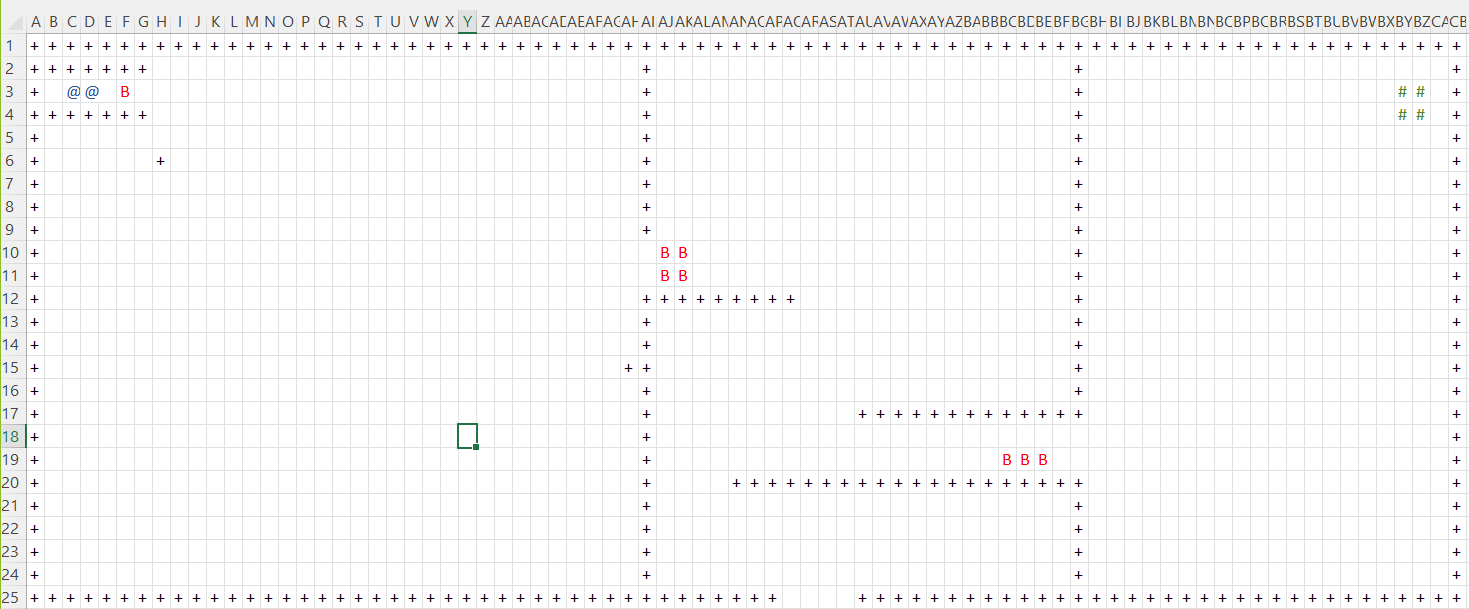
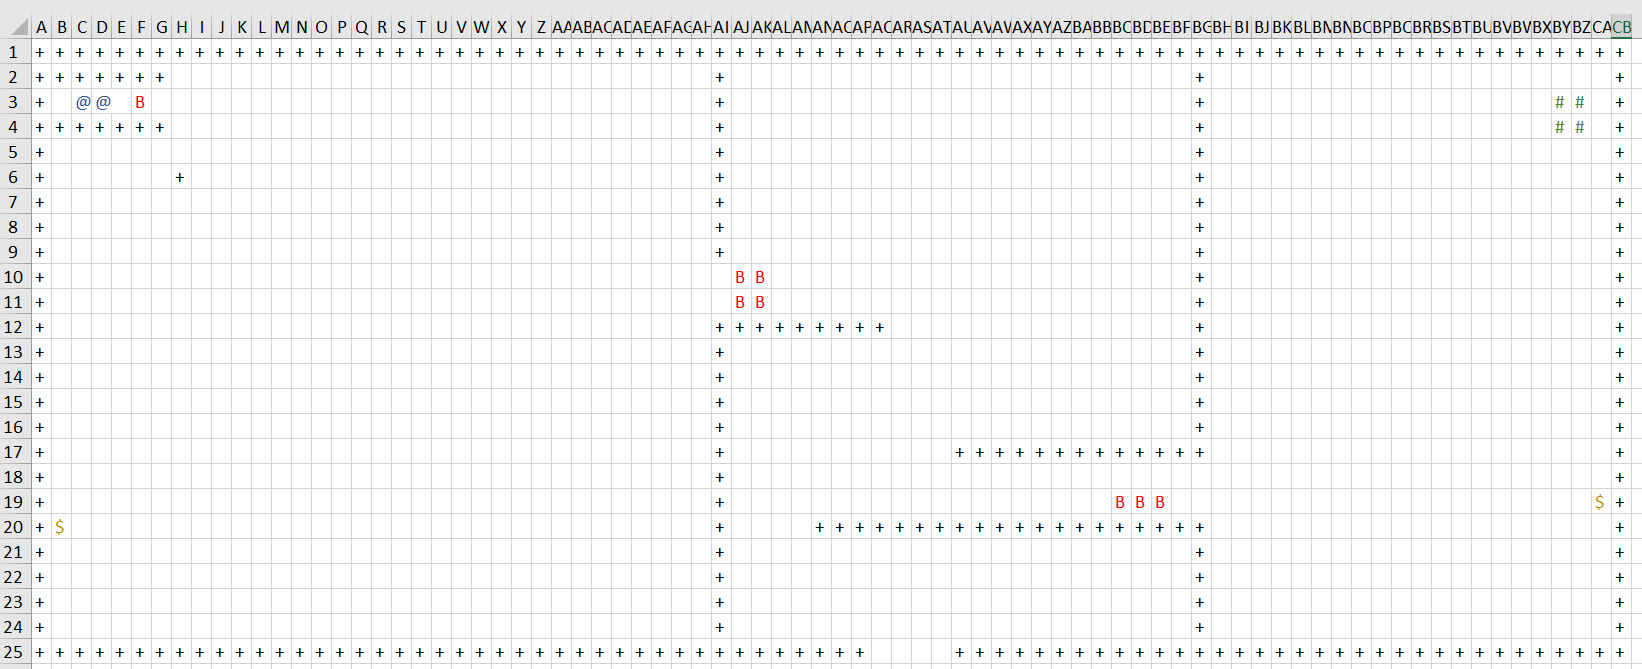
Fixes from Ido comments Still there is bug with first place of ghost is not empty

Changed region(s): [[0.0, 0.0, 1.0, 1.0]]

diff --git a/Thnderbird/Ghost.cpp b/Thnderbird/Ghost.cpp
@@ -2,20 +2,23 @@
 
 int Ghost::idGenerator = 1000;
 
-Ghost::Ghost(Point* _point)
+Ghost::Ghost(Point** _list_points, int _size)
 {
-
-	point = _point;
-	point->setFigure(figure);
-	point->setColor(color);
-	point->setObjecId(idGenerator++);
-
+	list_points = new Point* ();
+	for (int i = 0; i < _size; i++)
+	{
+		list_points[i] = _list_points[i];
+	}
+	size = _size;
+	for (int i = 0; i < size; i++){
+		list_points[i]->setObjecId(idGenerator++);
+	}
 }
 
-Ghost::Ghost(Point* _point, char _figure, Color _color, bool _isGhostBlock, int _ghostId)
+Ghost::Ghost(Point** _list_points, char _figure, Color _color, bool _isGhostBlock, int _ghostId)
 {
 
-	point = _point;
+	list_points = _list_points;
 	figure = _figure;
 	color = _color;
 	isGhostBlock = _isGhostBlock;
@@ -35,17 +38,26 @@ void Ghost::Move(Board* board){
 	MoveGhost(board);
 }
 
+int Ghost::getSize()
+{
+	return size;
+}
+
 void Ghost::MoveGhost(Board* board) {
 
 	auto mat = board->getMat();
-	point->draw((char)BoardFigure::EMPTY);
-	mat[point->getX(), point->getY()]->setFigure((char)BoardFigure::EMPTY);
-	mat[point->getX(), point->getY()]->setObjecId((int)ObjectId::EMPTY);
+	for (int i = 0; i < size; i++)
+	{
+		list_points[i]->draw((char)BoardFigure::EMPTY);
+		mat[list_points[i]->getX(), list_points[i]->getY()]->setFigure((char)BoardFigure::EMPTY);
+		mat[list_points[i]->getX(), list_points[i]->getY()]->setObjecId((int)ObjectId::EMPTY);
 
-	point->move(direction);
-	point->draw();
-	mat[point->getX(), point->getY()]->setFigure(figure);
-	mat[point->getX(), point->getY()]->setObjecId(ghostId);
+		list_points[i]->move(direction);
+		list_points[i]->draw();
+		mat[list_points[i]->getX(), list_points[i]->getY()]->setFigure(figure);
+		mat[list_points[i]->getX(), list_points[i]->getY()]->setObjecId(ghostId);
+	}
+	
 }
 
 void Ghost::checkGhostCollision(Board* board)
@@ -54,10 +66,10 @@ void Ghost::checkGhostCollision(Board* board)
 	switch (direction)
 	{
 	case 2: //LEFT
-		isGhostBlock = board->isNotEmptyPoint(point->getX() - 1, point->getY(), direction, blocksInvolve, 0);
+		isGhostBlock = board->isNotEmptyPoint(list_points[0]->getX() - 1, list_points[0]->getY(), direction, blocksInvolve, 0);
 		break;
 	case 3: //RIGHT
-		isGhostBlock = board->isNotEmptyPoint(point->getX() + 1, point->getY(), direction, blocksInvolve, 0);
+		isGhostBlock = board->isNotEmptyPoint(list_points[0]->getX() + 1, list_points[0]->getY(), direction, blocksInvolve, 0);
 		break;
 	default:
 		isGhostBlock = false;

diff --git a/Thnderbird/Board.cpp b/Thnderbird/Board.cpp
@@ -393,10 +393,20 @@ void Board::placeShipsOnBoard(SpaceShip* ship)
 
 void Board::initGhosts() {
 
-	Point* ghostPoint1 = new Point(1, 19);
-	Point* ghostPoint2 = new Point(78, 18);
-	allGhosts.push_back(Ghost(ghostPoint1));
-	allGhosts.push_back(Ghost(ghostPoint2));
+	ghostsAmount = 2;
+	
+	int size1 = 1;
+	Point* ghostPoint1 = new Point(1, 19, (char)BoardFigure::HORIZONTAL_GHOST, Color::BROWN);
+	Point* ghostList1[] = { ghostPoint1 };
+	Ghost* ghost1 = new Ghost(ghostList1,size1);
+	
+	int size2 = 1;
+	Point* ghostPoint2 = new Point(78, 18, (char)BoardFigure::HORIZONTAL_GHOST, Color::BROWN);
+	Point* ghostList2[] = {ghostPoint2};
+	Ghost* ghost2 = new Ghost(ghostList2, size2);
+
+	allGhosts.push_back(ghost1);
+	allGhosts.push_back(ghost2);
 
 	placeGhostsOnBoard();
 }
@@ -404,15 +414,24 @@ void Board::initGhosts() {
 void Board::moveGhosts() {
 
 	for (int i = 0; i < allGhosts.size(); i++) {
-		allGhosts[i].Move(this);
+		allGhosts[i]->Move(this);
 	}
 
 }
 
 void Board::placeGhostsOnBoard(){
 
+	int ghostSize;
+
 	for (int i = 0; i < allGhosts.size(); i++){
-		setMatrixPoint(allGhosts[i].point->getX(), allGhosts[i].point->getY(), allGhosts[i].point);
+
+		ghostSize = allGhosts[i]->getSize();
+
+		for (int j = 0; j < ghostSize; j++)
+		{
+			setMatrixPoint(allGhosts[i]->list_points[j]->getX(), allGhosts[i]->list_points[j]->getY(), allGhosts[i]->list_points[j]);
+		}
+		
 	}
 
 }

diff --git a/Thnderbird/Ghost.h b/Thnderbird/Ghost.h
@@ -11,19 +11,20 @@ class Ghost
 public:
 
 	//data members
-	Point* point;
+	Point** list_points;
 	char figure = (char)BoardFigure::HORIZONTAL_GHOST;
 	Color color = Color::BROWN;
 	bool isGhostBlock = false;
 	int ghostId = (int)ObjectId::EMPTY;
 	static int idGenerator;
 	int direction = (int)Direction::RIGHT;
+	int size = 0;
 
 
 	//ctors + dtors
 	Ghost() = default;
-	Ghost(Point* _point);
-	Ghost(Point* _point, char _figure, Color _color, bool _isGhostBlock, int _ghostId);
+	Ghost(Point** _list_points, int _size);
+	Ghost(Point** _list_points, char _figure, Color _color, bool _isGhostBlock, int _ghostId);
 	Ghost(const Ghost& _ghost) = default;
 	Ghost& operator=(const Ghost& _ghost) = default;
 	~Ghost();
@@ -31,7 +32,7 @@ public:
 
 	//public methods
 	void Move(Board* board);
-
+	int getSize();
 
 private:
 

diff --git a/Thnderbird/Point.h b/Thnderbird/Point.h
@@ -22,6 +22,7 @@ public:
 	//ctors + dtors
 	Point(int _x, int _y);
 	Point(int _x, int _y, char _fig);
+	Point(int _x, int _y, char _fig, Color _color);
 	Point(int _x, int _y, char _fig, Color _color, int _objectId);
 	Point() = default;
 	Point(const Point & _p) = default;
@@ -38,7 +39,6 @@ public:
 	int getObjecId() const;
 	char getFigure() const;
 	void setFigure(char _figure);
-	void setColor(Color _color);
 
 	//public methods
 	void draw() const;

diff --git a/Thnderbird/Point.cpp b/Thnderbird/Point.cpp
@@ -18,6 +18,13 @@ Point::Point(int _x, int _y, char _fig)
 	y = _y;
 	figure = _fig;
 }
+Point::Point(int _x, int _y, char _fig, Color _color)
+{
+	x = _x;
+	y = _y;
+	figure = _fig;
+	color = _color;
+}
 /*
 Constructor of Point with 5 parameters.
 */
@@ -115,10 +122,6 @@ void  Point::setFigure(char _figure) {
 	figure = _figure;
 }
 
-void Point::setColor(Color _color)
-{
-	color = _color;
-}
 
 /*
 This is setter function of object id data member.

diff --git a/Thnderbird/Board.h b/Thnderbird/Board.h
@@ -41,11 +41,12 @@ class Board
 	int maxVerticalSize = VERTICAL_SIZE;
 	long timeRemains = MAX_TIME;
 	Block* allBlocks[3] = { nullptr,nullptr,nullptr };
-	vector <Ghost> allGhosts;
+	vector <Ghost*> allGhosts;
 	int blocksAmount = 0;
 	SpaceShip* smallShip = {};
 	SpaceShip* bigShip = {};
 	int shipsAmount = 2;
+	int ghostsAmount = 0;
 
 public:
 
